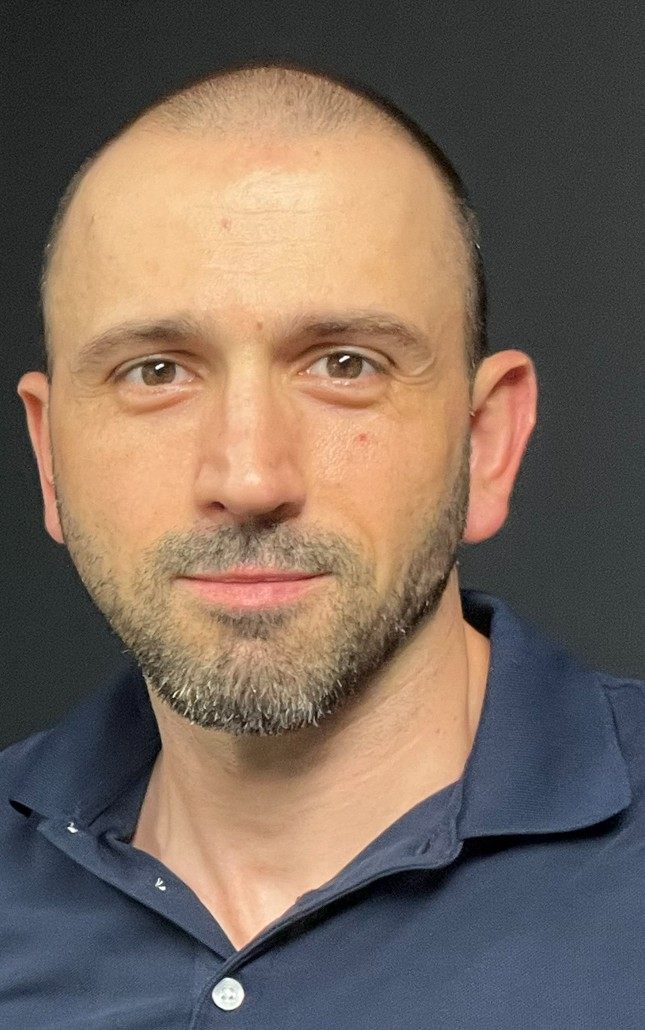
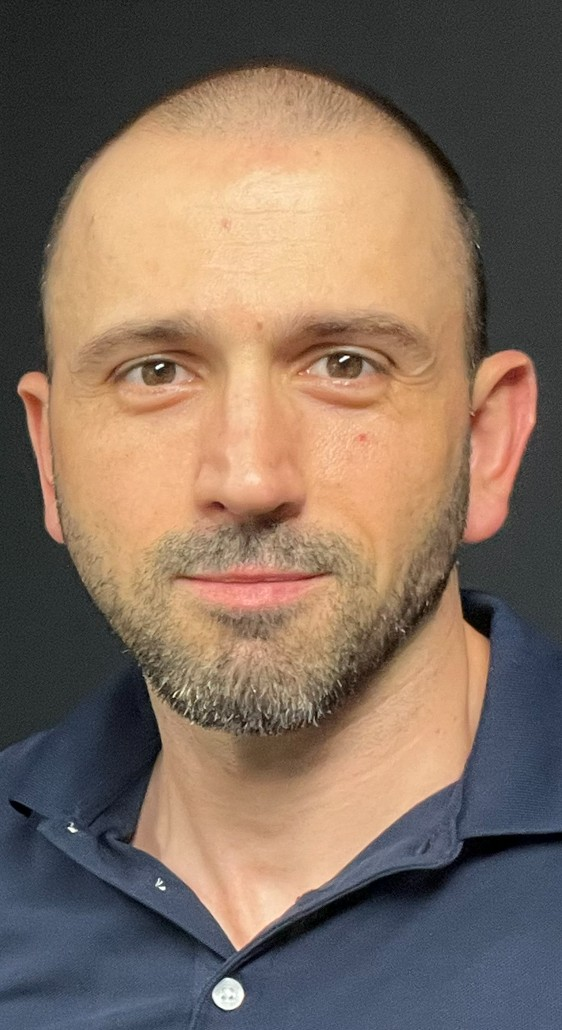
Center the profile photo and drop the surname from About

diff --git a/src/i18n/fr.ts b/src/i18n/fr.ts
@@ -98,12 +98,12 @@ export const fr: Dictionary = {
 
   about: {
     eyebrow: "À propos",
-    title: "Bonjour, je suis Ziad Bik",
+    title: "Bonjour, je suis Ziad",
     text1:
       "Je suis massothérapeute agréé et entraîneur personnel à Saint-Laurent. J'aide les gens à soulager leurs douleurs, corriger leur posture et rester forts et actifs, peu importe leur âge.",
     text2:
       "Je me déplace avec tout le nécessaire pour le traitement ou l'entraînement, à domicile, au bureau ou à votre gym, et je bâtis chaque plan selon votre corps et votre horaire.",
-    portraitAlt: "Portrait de Ziad Bik, massothérapeute et entraîneur personnel",
+    portraitAlt: "Portrait de Ziad, massothérapeute et entraîneur personnel",
     credentials: [
       "Massothérapeute agréé · membre RMQ",
       "Entraîneur personnel certifié",

diff --git a/src/i18n/en.ts b/src/i18n/en.ts
@@ -97,12 +97,12 @@ export const en = {
 
   about: {
     eyebrow: "About",
-    title: "Hi, I'm Ziad Bik",
+    title: "Hi, I'm Ziad",
     text1:
       "I'm a registered massage therapist and personal trainer based in Saint-Laurent. I help people relieve pain, correct their posture and stay strong and active, whatever their age.",
     text2:
       "I come to you with everything needed for treatment or training, at home, at the office or at your gym, and I build each plan around your body and your schedule.",
-    portraitAlt: "Portrait of Ziad Bik, massage therapist and personal trainer",
+    portraitAlt: "Portrait of Ziad, massage therapist and personal trainer",
     credentials: [
       "Registered Massage Therapist · RMQ member",
       "Certified Personal Trainer",
